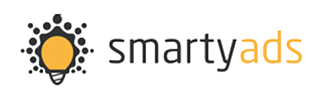
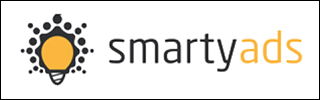
images update, README.md update

Changed region(s): [[0.0, 0.99, 1.0, 1.0], [0.0, 0.0, 1.0, 0.03]]

diff --git a/README.md b/README.md
@@ -6,8 +6,8 @@
 
 ## Supported Ad formats
 
-# 320x50 Standard Banner
-<img src="img/320x50.png" border="1" />
+<h1>320x50 Standard Banner <img style="border-width: 10px;" src="img/320x50.png" /></h1>
+
 
 # 320x100 Large Banner
 <img src="img/320x100.png" border="1" />
